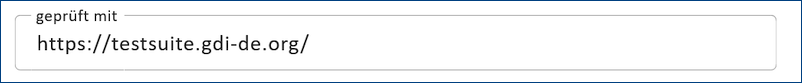
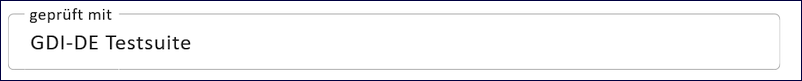
Aktualisierung

Changed region(s): [[0.0, 0.0988, 0.9663, 0.8642], [0.0, 0.0, 1.0, 1.0], [0.3741, 0.4198, 0.4052, 0.4691]]

diff --git a/docs/ingrid-editor/erfassung/datensatztypen/option/inspire-relevant.rst b/docs/ingrid-editor/erfassung/datensatztypen/option/inspire-relevant.rst
@@ -243,4 +243,4 @@ Abb.: Feld "geprüft mit": Angabe des Validators - z.B.: https://testsuite.gdi-d
    :scale: 70
    :figwidth: 100%
 
-Abb.: Feld "geprüft mit": Angabe des Validators - z.B.: https://testsuite.gdi-de.org/
+Abb.: Feld "geprüft mit": Angabe des Validators - z.B.: GDI-DE Testsuite
